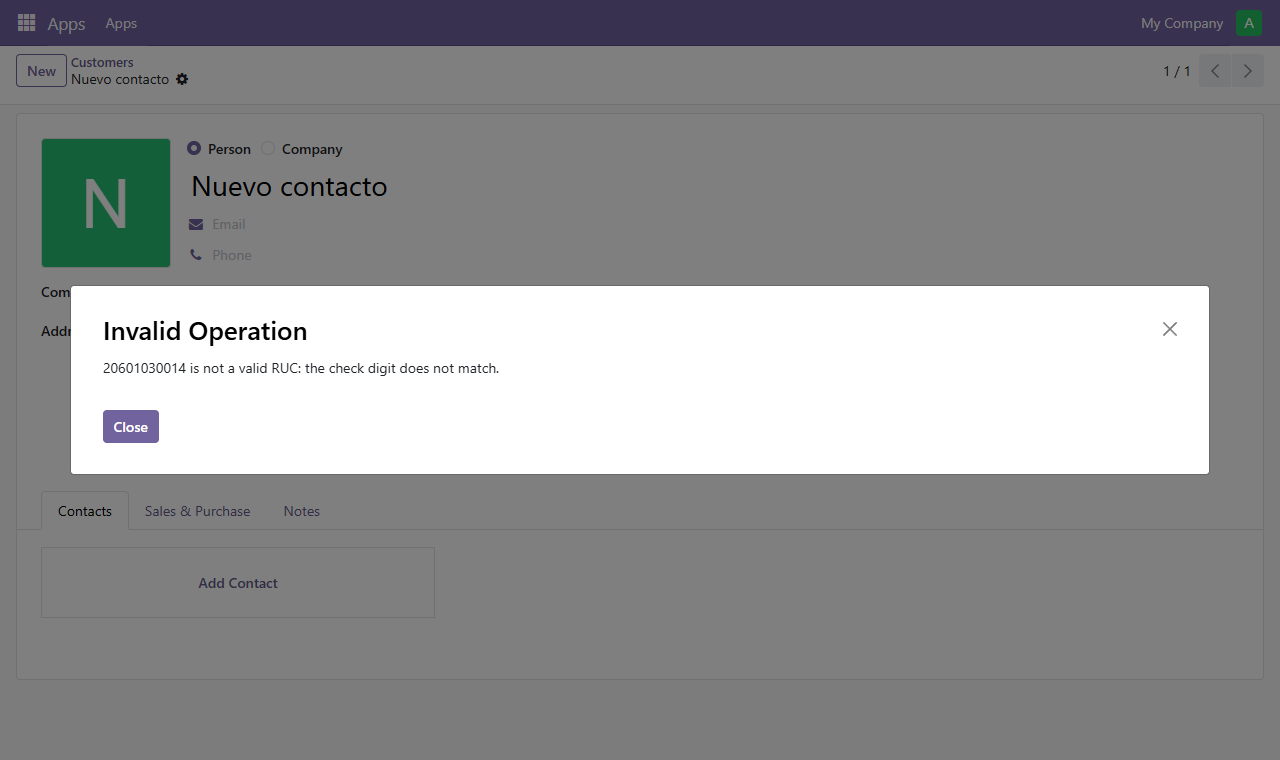
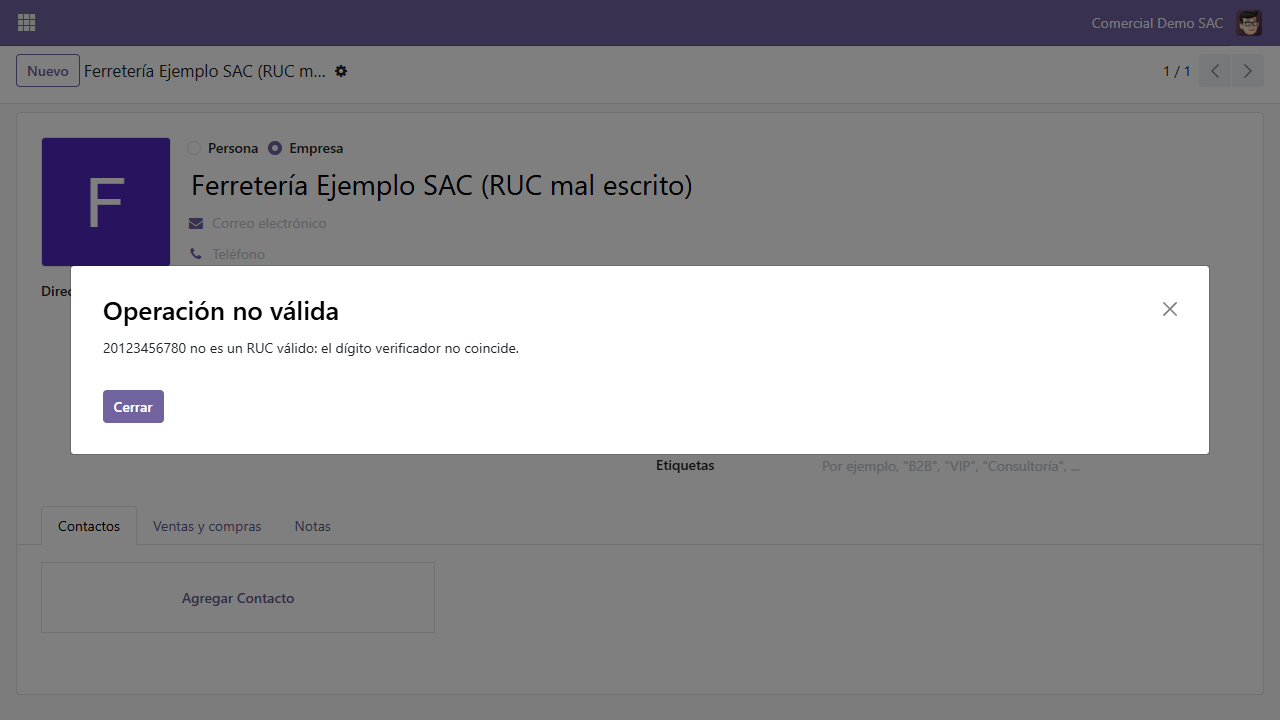
feat: Spanish translation, demo data, CI with and without demo
- i18n/es.po (Latin American wording, "Número de identificación fiscal"
  as in Odoo's own es_419); new test checks es_PE gets the check-digit
  error in Spanish (fails without the file).
- --with-demo adds two fictitious contacts that need no API token: one
  with a mistyped RUC (refused locally) and one flagged NO HABIDO (no
  RUC, so no real taxpayer is shown with that status).
- CI runs the suite without and with demo; README screenshots in Spanish.

diff --git a/addons/l10n_pe_partner_lookup/tests/test_partner_lookup.py b/addons/l10n_pe_partner_lookup/tests/test_partner_lookup.py
@@ -61,6 +61,14 @@ class TestPartnerLookup(TransactionCase):
             self.partner.action_pe_lookup()
         get.assert_not_called()
 
+    def test_messages_are_in_spanish_for_a_peruvian_user(self):
+        # es_PE reads the module's es.po (Odoo falls back es_PE -> es / es_419).
+        self.env["res.lang"]._activate_lang("es_PE")
+        self.partner.vat = "20601030014"
+        with patch(GET) as get, self.assertRaisesRegex(UserError, "el dígito verificador no coincide"):
+            self.partner.with_context(lang="es_PE").action_pe_lookup()
+        get.assert_not_called()
+
     def test_number_of_the_wrong_length_is_rejected(self):
         self.partner.vat = "123456789"
         with patch(GET) as get, self.assertRaisesRegex(UserError, "11-digit RUC or an 8-digit DNI"):

diff --git a/addons/l10n_pe_partner_lookup/__manifest__.py b/addons/l10n_pe_partner_lookup/__manifest__.py
@@ -16,6 +16,7 @@ warning before anyone invoices them.
         "views/res_partner_views.xml",
         "views/res_config_settings_views.xml",
     ],
+    "demo": ["data/demo.xml"],
     "installable": True,
     "application": False,
 }

diff --git a/README.md b/README.md
@@ -2,7 +2,7 @@
 
 [![tests](https://github.com/sebpost2/l10n_pe_partner_lookup/actions/workflows/tests.yml/badge.svg)](https://github.com/sebpost2/l10n_pe_partner_lookup/actions/workflows/tests.yml)
 
-**18 passing tests.** An Odoo 19 addon for Peru: type a RUC or DNI on a
+**19 passing tests.** An Odoo 19 addon for Peru: type a RUC or DNI on a
 contact, click once, and the contact fills itself from SUNAT or RENIEC. A
 taxpayer that SUNAT doesn't list as ACTIVO / HABIDO gets a warning before
 anyone invoices it.
@@ -31,13 +31,17 @@ anyone invoices it.
 - **Readable errors**: missing or rejected token, unknown number, timeout
   and server errors each get their own message, and none of them change
   the contact.
+- **In Spanish too**: `i18n/es.po`, with the Latin American wording of
+  Odoo's own contacts, so a Peruvian (`es_PE`) user sees the module and
+  its messages in Spanish.
 
 ![Contact filled from a RUC](docs/screenshots/ruc-lookup.png)
 ![Warning for a NO HABIDO taxpayer](docs/screenshots/no-habido-warning.png)
 ![Wrong check digit caught before calling the API](docs/screenshots/check-digit-error.png)
 
-*Screenshots use the sample record from Decolecta's public API docs and a
-fictitious company; no live lookup was made.*
+*Screenshots in Spanish (Peru). They use the sample record from
+Decolecta's public API docs and fictitious companies; no live lookup was
+made.*
 
 ## Design decisions
 
@@ -55,20 +59,26 @@ fictitious company; no live lookup was made.*
 
 ```bash
 docker compose up -d
-docker compose exec odoo odoo -d pe_lookup -i l10n_pe_partner_lookup --without-demo=all --db_host=db --db_user=odoo --db_password=odoo --stop-after-init
+docker compose exec odoo odoo -d pe_lookup -i l10n_pe_partner_lookup --with-demo --db_host=db --db_user=odoo --db_password=odoo --stop-after-init
 ```
 
-Open `http://localhost:8069`, then Settings, General Settings, Contacts, and
-paste a token from [decolecta.com](https://decolecta.com).
+Open `http://localhost:8069` (user `admin`, password `admin`). `--with-demo`
+adds two fictitious contacts that work without a token: "Ferretería Ejemplo
+SAC (RUC mal escrito)", whose lookup is refused locally for its check
+digit, and "Distribuidora Ejemplo SAC (no habido)", which shows the
+warning. For real lookups, go to Settings, General Settings, Contacts, and
+paste a token from [decolecta.com](https://decolecta.com). Drop the flag
+for an empty database.
 
 ## Running the tests
 
 ```bash
-docker compose exec odoo odoo -d pe_lookup_test -i l10n_pe_partner_lookup --test-enable --test-tags /l10n_pe_partner_lookup --stop-after-init --without-demo=all --db_host=db --db_user=odoo --db_password=odoo
+docker compose exec odoo odoo -d pe_lookup_test -i l10n_pe_partner_lookup --test-enable --test-tags /l10n_pe_partner_lookup --stop-after-init --db_host=db --db_user=odoo --db_password=odoo
 ```
 
 The HTTP client is mocked in every test, so they need no token and no
-network. CI runs them on every push against the stock `odoo:19` image.
+network. CI runs them on every push against the stock `odoo:19` image, once
+without and once with demo data.
 
 ## Scope
 
